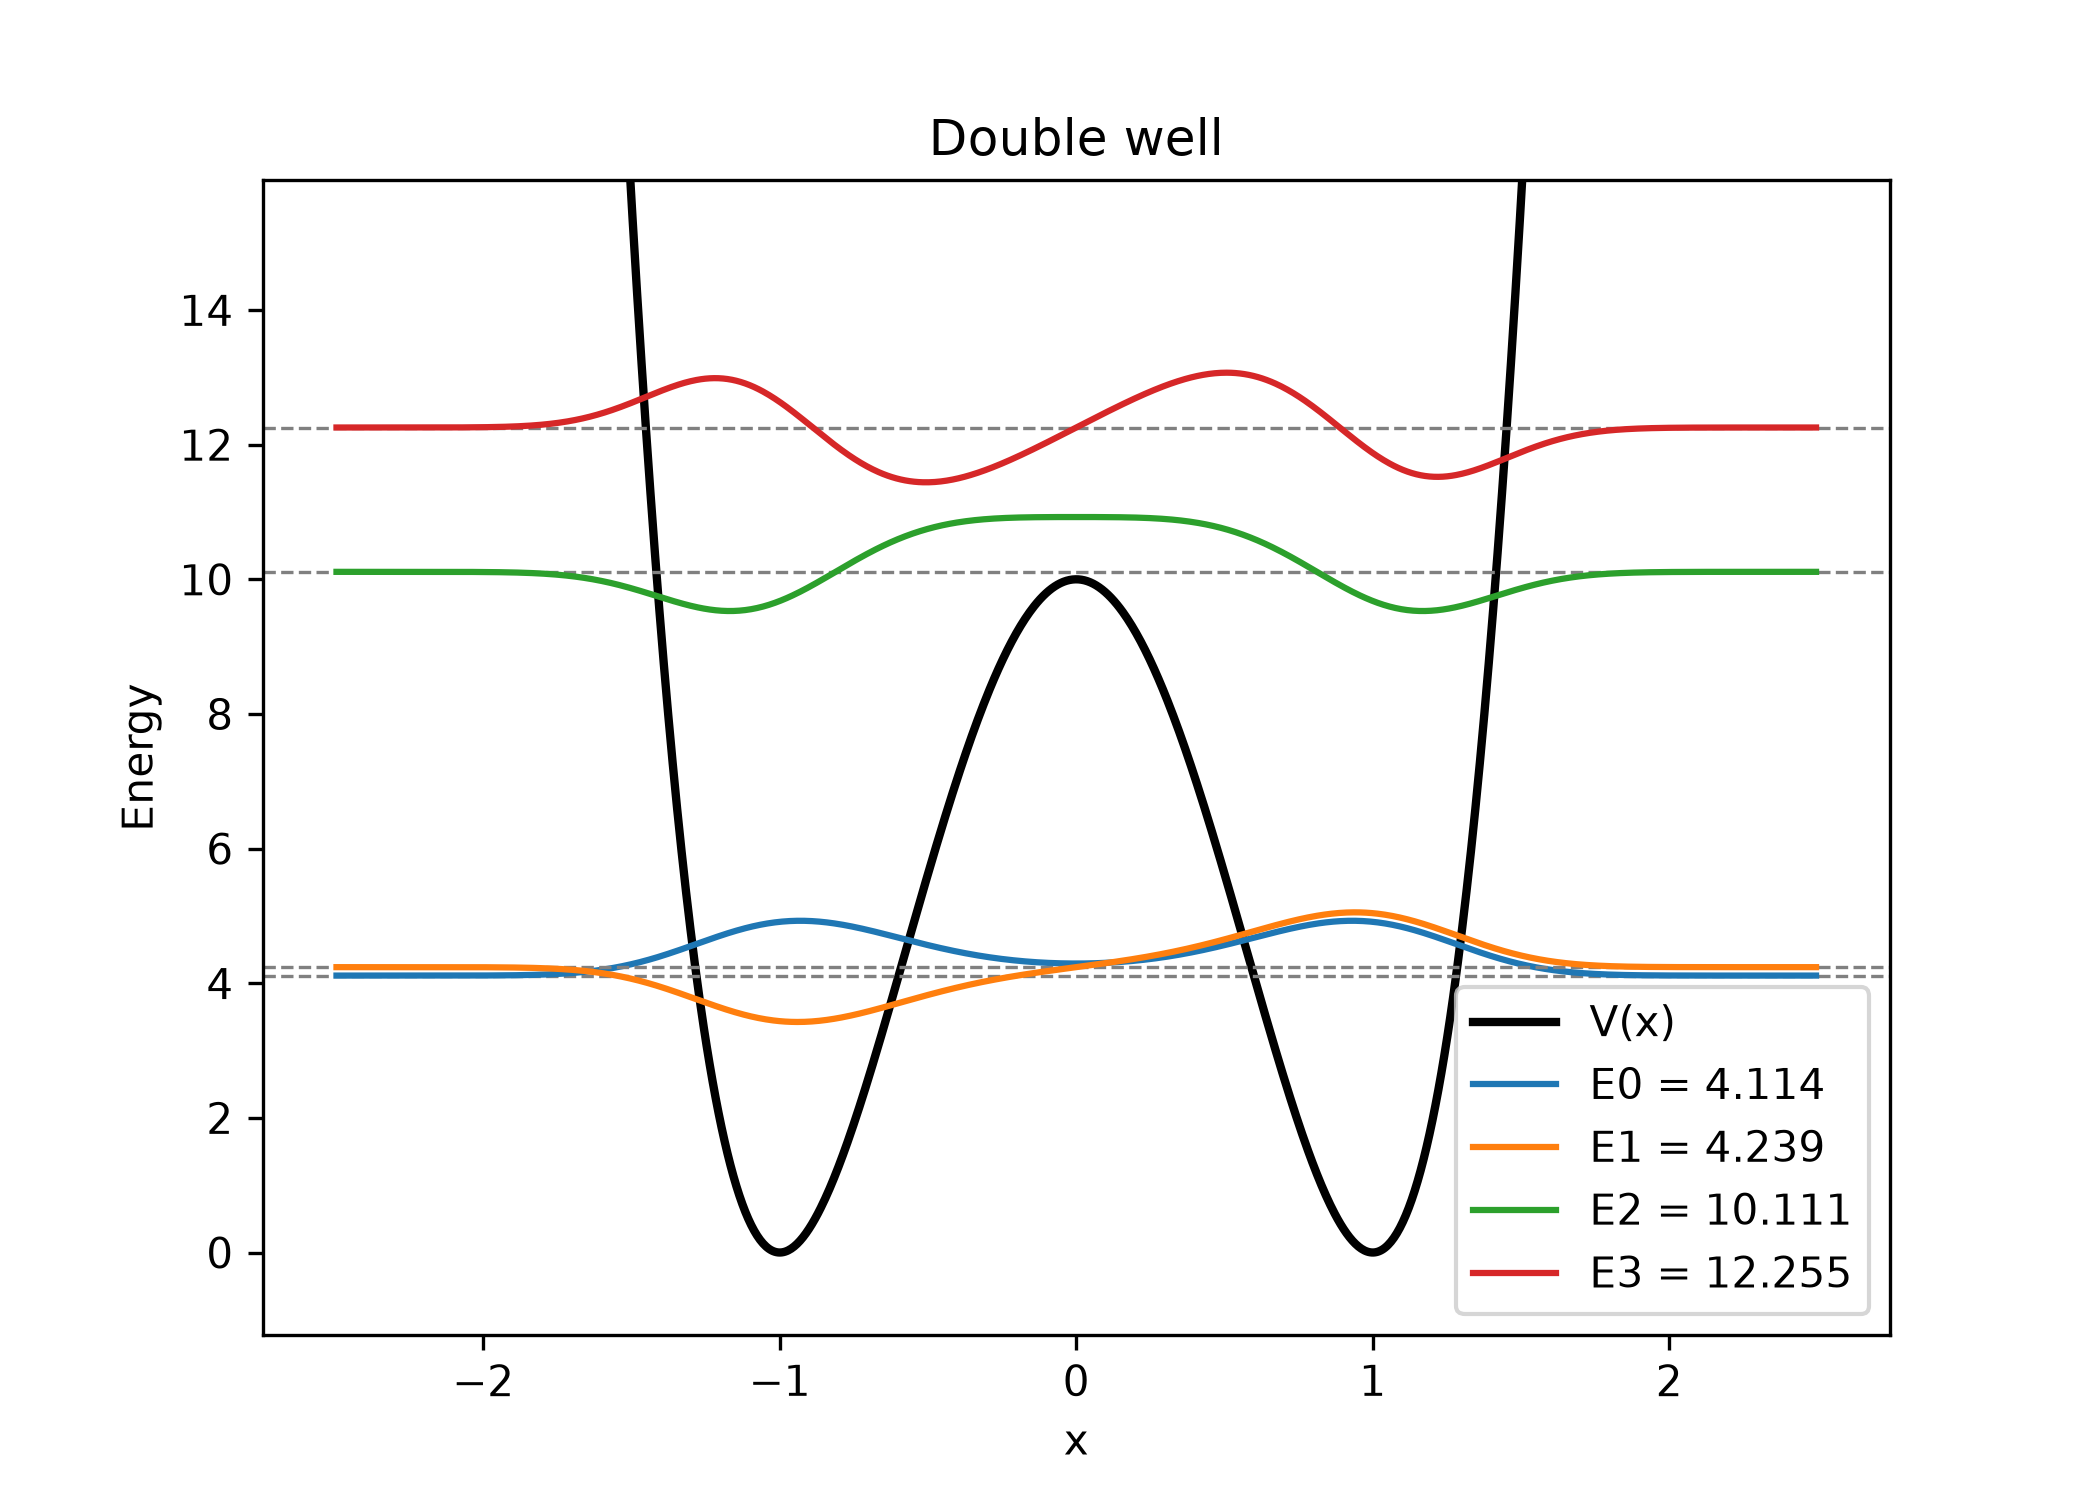
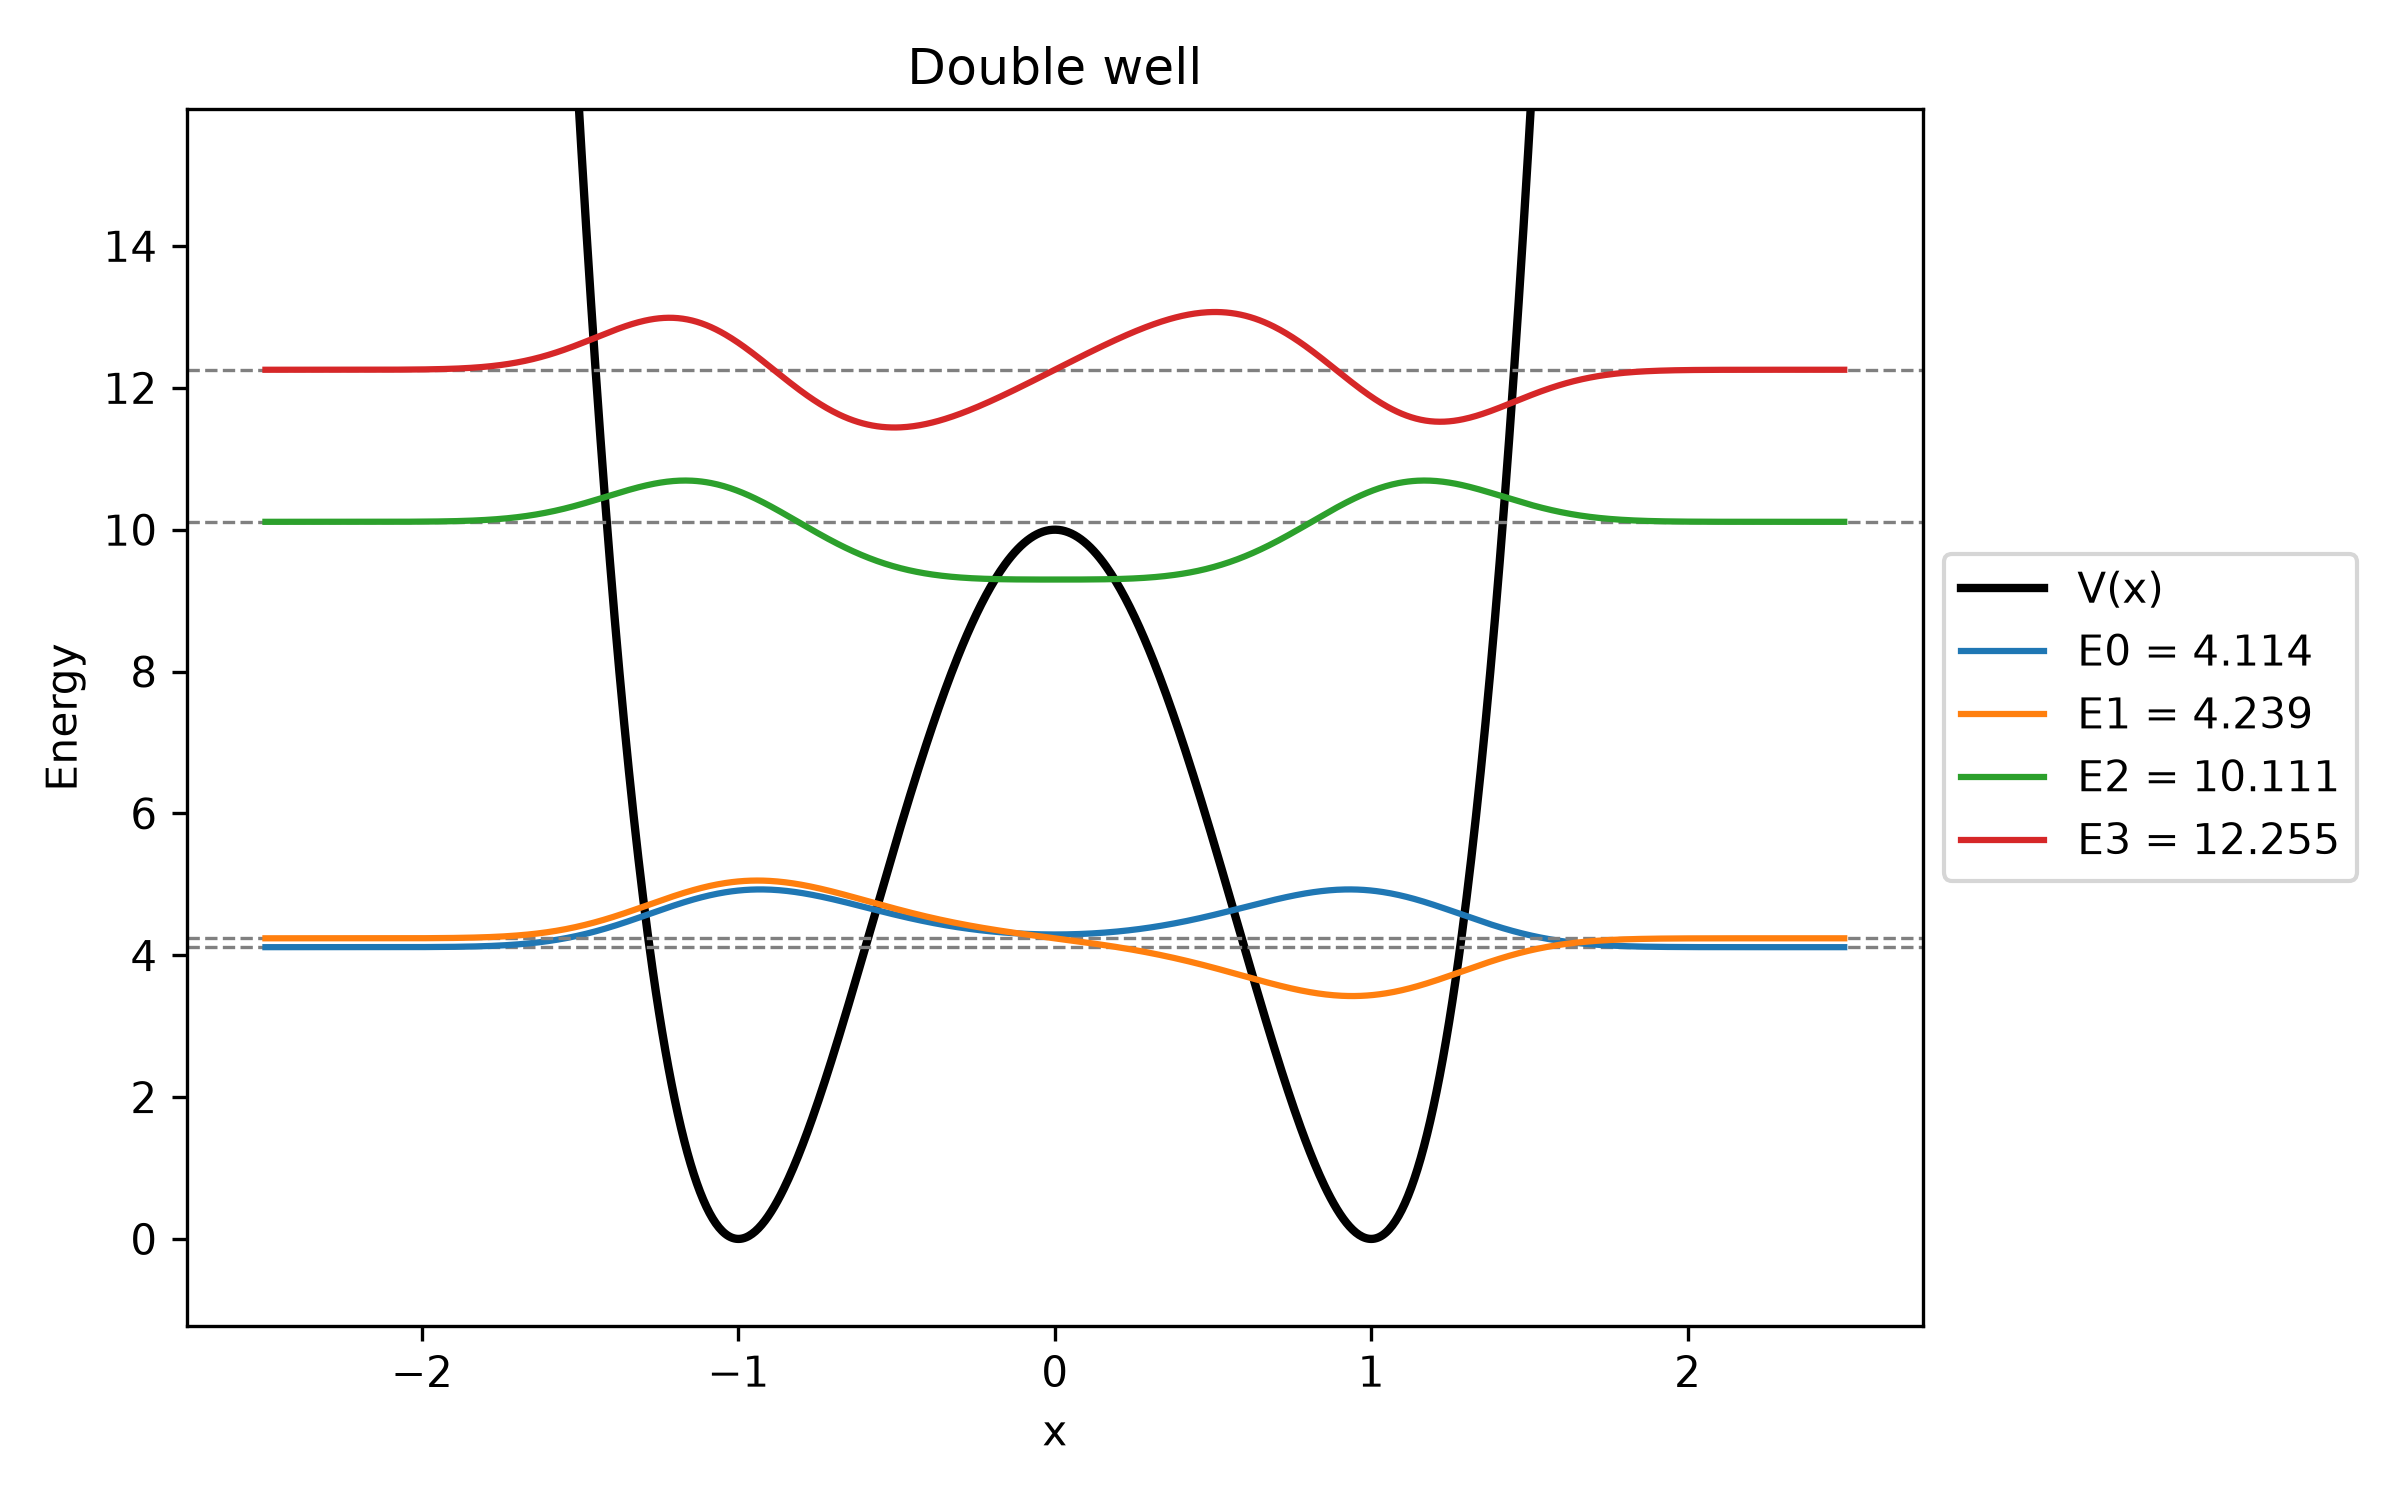
Polish figures: legend outside, box walls, consistent wavefunction sign

diff --git a/src/plotting.py b/src/plotting.py
@@ -6,20 +6,26 @@ Functions to draw the results of the solver.
 import matplotlib.pyplot as plt
 
 
-def plot_states(x, V, E, psi, title, filename=None):
-    """Draw the potential V(x) and each wavefunction, shifted up to its energy level."""
+def plot_states(x, V, E, psi, title, filename=None, walls=False, n_start=0):
+    """Draw the potential V(x) and each wavefunction, shifted up to its energy level.
+    walls=True draws hard walls at both ends (for the box).
+    n_start is the number of the first state (0 for most potentials, 1 for the box)."""
     scale = 0.4 * (E[-1] - E[0]) / len(E)        # height of each wavefunction drawing
-    plt.figure(figsize=(7, 5))
+    plt.figure(figsize=(8, 5))
     plt.plot(x, V, color="black", linewidth=2, label="V(x)")
+    if walls:
+        plt.axvline(x[0], color="black", linewidth=2)     # left wall
+        plt.axvline(x[-1], color="black", linewidth=2)    # right wall
     for k in range(len(E)):
         plt.axhline(E[k], color="gray", linestyle="--", linewidth=0.8)
         wave = psi[:, k] / max(abs(psi[:, k]))     # make the peak height = 1
-        plt.plot(x, E[k] + scale * wave, label=f"E{k} = {E[k]:.3f}")
+        plt.plot(x, E[k] + scale * wave, label=f"E{k + n_start} = {E[k]:.3f}")
     plt.ylim(min(V) - 0.1 * E[-1], 1.3 * E[-1])
     plt.xlabel("x")
     plt.ylabel("Energy")
     plt.title(title)
-    plt.legend()
+    plt.legend(loc="center left", bbox_to_anchor=(1, 0.5))   # legend outside, on the right
+    plt.tight_layout()                                       # make room for the legend
     if filename:
         plt.savefig(filename, dpi=300)           # save a high-quality picture
     plt.show()

diff --git a/src/solver.py b/src/solver.py
@@ -38,4 +38,8 @@ def solve(V_func, x_min, x_max, N=1000, n_states=5):
     E = E[:n_states]               # keep only the lowest few
     psi = psi[:, :n_states]
     psi = psi / np.sqrt(dx)        # normalize: sum of |psi|^2 * dx = 1
+    for k in range(n_states):      # make every wave start upwards (psi and -psi are the same state)
+        first = np.argmax(abs(psi[:, k]) > 0.01 * max(abs(psi[:, k])))
+        if psi[first, k] < 0:
+            psi[:, k] = -psi[:, k]
     return x, E, psi

diff --git a/examples/run_examples.py b/examples/run_examples.py
@@ -27,7 +27,7 @@ E_exact = n**2 * np.pi**2 / 2
 print("Particle in a box")
 print("  numerical:", E)
 print("  exact:    ", E_exact)
-plot_states(x, box(x), E, psi, "Particle in a box", "figures/box.png")
+plot_states(x, box(x), E, psi, "Particle in a box", "figures/box.png", walls=True, n_start=1)
 
 
 # 2. Harmonic oscillator

diff --git a/README.md b/README.md
@@ -9,7 +9,7 @@ In quantum mechanics, a particle in a potential V(x) can only have certain energ
 These energies and the wavefunctions come from the Schrödinger equation
 (units: ħ = m = 1):
 
-$$-\frac{1}{2}\frac{d^2\psi}{dx^2} + V(x)\,\psi = E\,\psi$$
+-\frac{1}{2}\frac{d^2\psi}{dx^2} + V(x)\psi = E\psi
 
 Only a few potentials (box, harmonic oscillator) can be solved exactly by hand.
 For realistic potentials, like a finite well or a double well, we need a numerical method.
